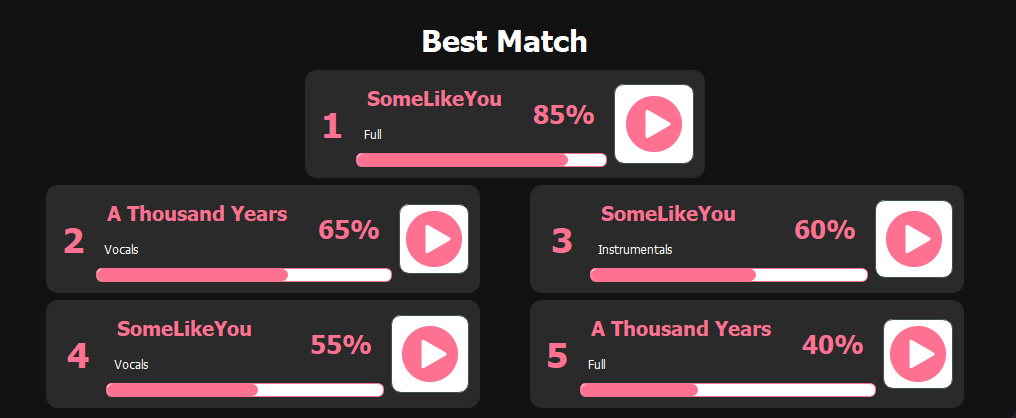
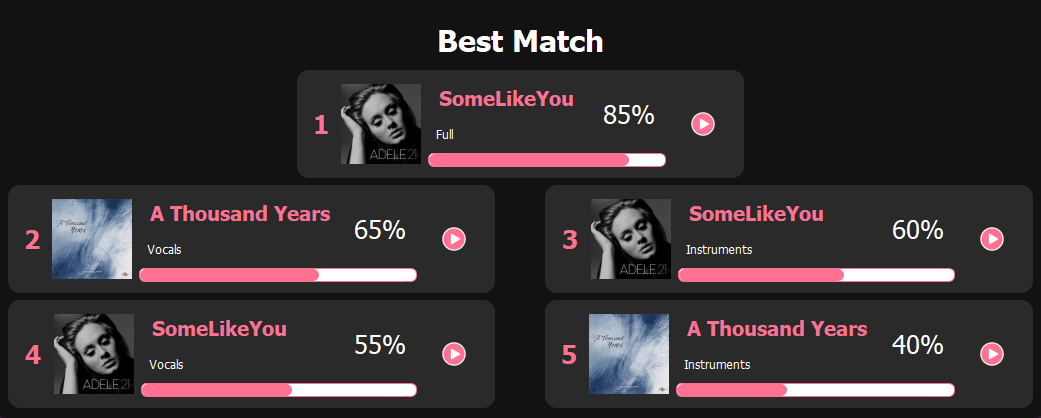
Song covers done

diff --git a/gui/Results.py b/gui/Results.py
@@ -1,9 +1,13 @@
-from PyQt5.QtCore import Qt, QSize, QUrl
+from PyQt5.QtMultimedia import QMediaPlayer, QMediaContent
+from PyQt5.QtCore import Qt
+from PyQt5.QtCore import Qt, QSize
 from PyQt5.QtGui import QIcon
 from PyQt5.QtWidgets import QApplication, QMainWindow, QWidget, QVBoxLayout, QHBoxLayout, QLabel, QProgressBar, \
     QPushButton
-from PyQt5.QtMultimedia import QMediaPlayer, QMediaContent
-import os 
+import os
+from PyQt5.QtCore import Qt, QUrl, QTimer, QSize 
+
+
 
 class ResultCard(QWidget):
     def __init__(self, rank="1", songName="Song Name", singerName="Singer Name", similarity=22,file=None):
@@ -22,12 +26,12 @@ class ResultCard(QWidget):
     def initializeUI(self, rank, songName, singerName, similarity):
         self.createUiElements(rank, songName, singerName, similarity)
         self.createLayout()
-        self.styleUi(songName)
+        self.styleUi()
 
     def createUiElements(self, rank, songName, singerName, similarity):
         self.rank = QLabel(rank)
         self.cover = QPushButton()
-        self.songName = ScrollingLabel(songName)
+        self.songName = ScrollingLabel(songName) 
         self.singerName = QLabel(singerName)
         self.similarityBar = QProgressBar()
         self.similarityBar.setMinimum(0)
@@ -53,27 +57,24 @@ class ResultCard(QWidget):
         cardBody.addWidget(self.similarityBar)
         cardBody.addStretch(1)
 
+        # Adjust the proportions of the widgets in the main layout
         self.mainLayout.addWidget(self.rank, 3)
-        self.mainLayout.addLayout(cardBody, 20)
-        # self.mainLayout.addWidget(self.playButton, 5)
-        self.mainLayout.addWidget(self.cover, 6)
+        self.mainLayout.addWidget(self.cover, 10)
+        self.mainLayout.addLayout(cardBody, 30)
+        self.mainLayout.addWidget(self.playButton, 5)
 
         self.setLayout(self.mainLayout)
 
-    def styleUi(self,songName):
+    def styleUi(self):
         self.mainColor = "#FE7191"
         self.accentColor = "White"
         self.setAttribute(Qt.WA_StyledBackground, True)
         self.setStyleSheet(f"background-color: #2a2a2a;  border-radius:12px;")
 
         self.setMinimumWidth(400)
-        self.setMaximumWidth(500)
         self.setMaximumHeight(200)
 
         # Style for the cover button
-        self.cover.setMinimumSize(70,70)
-        self.cover.setIcon(QIcon("Photos/Button Play.png"))
-        self.cover.setIconSize(QSize(100, 100))  # Set icon size to match button width
         self.cover.setStyleSheet("""
             QPushButton {
                 background-color: White;
@@ -89,24 +90,26 @@ class ResultCard(QWidget):
                 color: {self.mainColor};
                 font-family: 'Roboto';
                 font-weight: Bold;
-                font-size: 35px;
+                font-size: 25px;
                 border: 1px solid #FF0000;
                 padding: 5px;
                 border: none;
             }}
         """)
-        #
-        # self.songName.setStyleSheet(f"""
-        #     QLabel {{
-        #         color: {self.mainColor};
-        #         font-family: 'Roboto';
-        #         font-weight: Bold;
-        #         font-size: 20px;
-        #         padding: 5px;
-        #         border: none;
-        #     }}
-        # """)
 
+        # Style for song name label
+        self.songName.setStyleSheet(f"""
+            QLabel {{
+                color: {self.mainColor};
+                font-family: 'Roboto';
+                font-weight: Bold;
+                font-size: 20px;
+                padding: 5px;
+                border: none;
+            }}
+        """)
+
+        # Style for singer name label
         self.singerName.setStyleSheet(f"""
             QLabel {{
                 color: {self.accentColor};
@@ -118,18 +121,23 @@ class ResultCard(QWidget):
             }}
         """)
 
+        # Style for similarity result label
         self.similarityResult.setStyleSheet(f"""
             QLabel {{
-                color: {self.mainColor};
+                color: {self.accentColor};
                 font-family: 'Roboto';
-                font-weight: Bold;
+                font-weight: semiBold;
                 font-size: 25px;
                 border: 1px solid #009688;
                 padding: 5px;
                 border: none;
             }}
         """)
+
+        # Align similarity result to the right
         self.similarityResult.setAlignment(Qt.AlignRight | Qt.AlignCenter)
+
+        # Style for similarity progress bar
         self.similarityBar.setStyleSheet(f"""
             QProgressBar {{
                 min-height: 12px;
@@ -145,22 +153,23 @@ class ResultCard(QWidget):
         """)
 
         self.similarityBar.setFormat("")  # Remove the text from the QProgressBar
-        self.playButton.setMinimumSize(60,60)
         self.playButton.setFlat(True)
         self.playButton.setStyleSheet("border: none;")
 
 
     def connectUI(self):
-        self.cover.clicked.connect(self.toggle_playback)
+        self.playButton.clicked.connect(self.toggle_playback)
         self.player.stateChanged.connect(self.on_state_changed)
-        print("UI Connection Done")
 
     def resizeEvent(self, event):
         super().resizeEvent(event)
         size = self.cover.width()  # Use width as the reference to adjust the size
         self.cover.setFixedSize(size, size)
+        self.cover.setIconSize(QSize(size, size))
         self.playButton.setFixedSize(int(size * 0.75), int(size * 0.75))
         self.playButton.setIconSize(QSize(int(size * 0.3), int(size * 0.3)))
+
+
 
     def on_state_changed(self, state):
         if state == QMediaPlayer.PlayingState:
@@ -172,7 +181,7 @@ class ResultCard(QWidget):
         if self.player:
             self.player.stop()
             self.is_playing = False
-            self.cover.setIcon(QIcon("Photos/Button Play.png"))
+            self.playButton.setIcon(QIcon("Photos/Button Play.png"))
     
     def toggle_playback(self):
         # Stop all other cards' playback
@@ -203,28 +212,29 @@ class ResultCard(QWidget):
         if self.is_playing:
             self.player.pause()
             self.is_playing = False
-            self.cover.setIcon(QIcon("Photos/Button Play.png"))
+            self.playButton.setIcon(QIcon("Photos/Button Play.png"))
         else:
             self.player.play()
             self.is_playing = True
-            self.cover.setIcon(QIcon("Photos/Button Pause.png"))
+            self.playButton.setIcon(QIcon("Photos/Button Pause.png"))
 
 
 
 
-    def updateCard(self, rank=None, songName=None, singerName=None, similarity=None,file=None):
+    def updateCard(self, rank=None, songName=None, singerName=None, similarity=None, file=None, cover_path=None):
         self.stop_playback()
         if rank is not None:
-            self.rank.setText(str(rank))  # Update rank text
+            self.rank.setText(str(rank))
         if songName is not None:
             self.original_file_name = file  # Store the original filename
             self.display_name = songName 
-            self.songName.updateText(songName)  # Update song name
-            # self.cover.setIcon(QIcon(f"Photos/Covers/{songName}.jpeg"))  # Update cover image
+            self.songName.updateText(songName)
+            if cover_path is not None:
+                self.cover.setIcon(QIcon(cover_path))
         if singerName is not None:
-            self.singerName.setText(singerName)  # Update singer name
+            self.singerName.setText(singerName)
         if similarity is not None:
-            self.similarityBar.setValue(similarity)  # Update similarity bar value
+            self.similarityBar.setValue(similarity)
             self.similarityResult.setText(f"{similarity}%")
 
 
@@ -289,6 +299,6 @@ if __name__ == "__main__":
     resultCard = ResultCard()
     mainWindow.setCentralWidget(resultCard)
     mainWindow.setWindowTitle("Result Card Demo")
-    mainWindow.resize(400, 100)  # You can adjust this as needed
+    mainWindow.resize(400, 100)
     mainWindow.show()
     app.exec_()

diff --git a/main.py b/main.py
@@ -48,69 +48,94 @@ class TuneTrackApp(QMainWindow):
         self.playback_widget = AudioCardPlayback()
 
         self.bestMatchLabel = QLabel("Best Match")
-        # should be in function
-        self.bestMatchCard = ResultCard("1", "Song 1", "Remix", 55)
-        self.MatchCard1 = ResultCard("2", "JSJ 2", "Remix", 40)
-        self.MatchCard2 = ResultCard("3", "Song 3", "Remix", 30)
-        self.MatchCard3 = ResultCard("4", "Song 4", "Remix", 25)
-        self.MatchCard4 = ResultCard("5", "Song 5", "Remix", 10)
+
+        self.bestMatchCard = ResultCard("1", "Song 1", "Song Type", 55)
+        self.MatchCard1 = ResultCard("2", "Song 2", "Song Type", 40)
+        self.MatchCard2 = ResultCard("3", "Song 3", "Song Type", 30)
+        self.MatchCard3 = ResultCard("4", "Song 4", "Song Type", 25)
+        self.MatchCard4 = ResultCard("5", "Song 5", "Song Type", 10)
 
     def updateResults(self, song_similarity_data):
 
         def parse_song_name(song_file_name):
-           
             type_keywords = {
                 'vocals': 'Vocals',
+                'vocal': 'Vocals',
                 'lyrics': 'Vocals',
                 'instrument': 'Instruments',
                 'instruments': 'Instruments',
                 'music': 'Instruments',
-                'full': 'Full',
-                'original': 'Full'
+                'full': 'Full Song',
+                'original': 'Full Song'
             }
 
-
-            # Handle square brackets format
-            bracket_match = re.search(r"\[\s*(music|vocals|instrument|instruments|lyrics)\s*\]", song_file_name, re.IGNORECASE)
-            if bracket_match:
-                raw_type = bracket_match.group(1).strip().lower()
+            clean_name = song_file_name.strip()
+            
+            # square brackets format
+            square_bracket_match = re.search(r"\[\s*(music|vocals|instrument|instruments|lyrics)\s*\]", song_file_name, re.IGNORECASE)
+            if square_bracket_match:
+                clean_name = re.sub(r"\[\s*(music|vocals|instrument|instruments|lyrics)\s*\]", "", song_file_name, flags=re.IGNORECASE).strip()
+                raw_type = square_bracket_match.group(1).strip().lower()
                 song_type = type_keywords.get(raw_type, "Full")
-                return song_file_name.strip(), song_type
+                return song_file_name.strip(), song_type, clean_name
 
-            # Handle underscore format 
-            underscore_match = re.match(r"^.+_([^[\]]+)$", song_file_name)
+            # underscore format 
+            underscore_match = re.match(r"^([^_]+)_(.+?)_([^_]+)$", song_file_name)
             if underscore_match:
-                raw_type = underscore_match.group(1).strip().lower()
-                song_type = type_keywords.get(raw_type, "Full")
-                return song_file_name.strip(), song_type
+                group_name = underscore_match.group(1).strip()
+                song_name = underscore_match.group(2).strip()
+                raw_type = underscore_match.group(3).strip().lower()                
+                clean_name = song_name
+                clean_name = clean_name.strip()
+                clean_name = clean_name.title()
+                song_display = f"{group_name}_{song_name} ({raw_type})"
+                song_type = type_keywords.get(raw_type, "Full Song")
+                
+                return song_display, song_type, clean_name
 
-            # Handle parentheses format
-            paren_match = re.match(r"(.+?)\(\s*(.+?)\s*\)(?:.*)?", song_file_name, re.IGNORECASE)
-            if paren_match:
-                song_name = paren_match.group(1).strip()
-                raw_type = paren_match.group(2).strip().lower()
+            # single underscore format
+            single_underscore_match = re.match(r"^(.+)_([^_]+)$", song_file_name)
+            if single_underscore_match:
+                clean_name = single_underscore_match.group(1).strip()
+                song_display = clean_name + f" ({single_underscore_match.group(2).strip()})"
+                raw_type = single_underscore_match.group(2).strip().lower()
                 song_type = type_keywords.get(raw_type, "Full")
-                return song_name + f" ({raw_type})", song_type
+                return song_display, song_type, clean_name
 
-            return song_file_name.strip(), "Full"
+            # Parentheses format
+            Parentheses_match = re.match(r"(.+?)\(\s*(.+?)\s*\)(?:.*)?", song_file_name, re.IGNORECASE)
+            if Parentheses_match:
+                clean_name = Parentheses_match.group(1).strip()
+                song_display = clean_name + f" ({Parentheses_match.group(2).strip()})"
+                raw_type = Parentheses_match.group(2).strip().lower()
+                song_type = type_keywords.get(raw_type, "Full")
+                return song_display, song_type, clean_name
+
+            return song_file_name.strip(), "Full", clean_name
 
 
         """Update the result cards with new song similarity data."""
         # Loop through the array of tuples (songName, similarity)
         for idx, (song_file_name, similarity) in enumerate(song_similarity_data):
-            song_name, artist = parse_song_name(song_file_name)
+            song_name, artist, clean_name = parse_song_name(song_file_name)
+            cover_path = f"Photos/Covers/{clean_name}.jpeg"
 
             # Update the best match
             if idx == 0:
-                self.bestMatchCard.updateCard(rank="1", songName=song_name, singerName=artist, similarity=similarity,file=song_file_name)
+                self.bestMatchCard.updateCard(rank="1", songName=song_name, singerName=artist, 
+                                            similarity=similarity, file=song_file_name, cover_path=cover_path)
             elif idx == 1:
-                self.MatchCard1.updateCard(rank="2", songName=song_name, singerName=artist, similarity=similarity,file=song_file_name)
+                self.MatchCard1.updateCard(rank="2", songName=song_name, singerName=artist, 
+                                        similarity=similarity, file=song_file_name, cover_path=cover_path)
             elif idx == 2:
-                self.MatchCard2.updateCard(rank="3", songName=song_name, singerName=artist, similarity=similarity,file=song_file_name)
+                self.MatchCard2.updateCard(rank="3", songName=song_name, singerName=artist, 
+                                        similarity=similarity, file=song_file_name, cover_path=cover_path)
             elif idx == 3:
-                self.MatchCard3.updateCard(rank="4", songName=song_name, singerName=artist, similarity=similarity,file=song_file_name)
+                self.MatchCard3.updateCard(rank="4", songName=song_name, singerName=artist, 
+                                        similarity=similarity, file=song_file_name, cover_path=cover_path)
             elif idx == 4:
-                self.MatchCard4.updateCard(rank="5", songName=song_name, singerName=artist, similarity=similarity,file=song_file_name)
+                self.MatchCard4.updateCard(rank="5", songName=song_name, singerName=artist, 
+                                        similarity=similarity, file=song_file_name, cover_path=cover_path)
 
     def stop_all_cards_except(self, active_card):
         for card in [self.bestMatchCard, self.MatchCard1, self.MatchCard2, self.MatchCard3, self.MatchCard4]:
@@ -240,7 +265,7 @@ class TuneTrackApp(QMainWindow):
         self.hashed_features = self.process.get_hashed_features()
         check = SimilarityCheck()
         check.set_hashed_song(self.hashed_features)
-        similar = check.get_similarities() # integrate with the results
+        similar = check.get_similarities() 
         self.updateResults(similar)
         print(similar)
 
